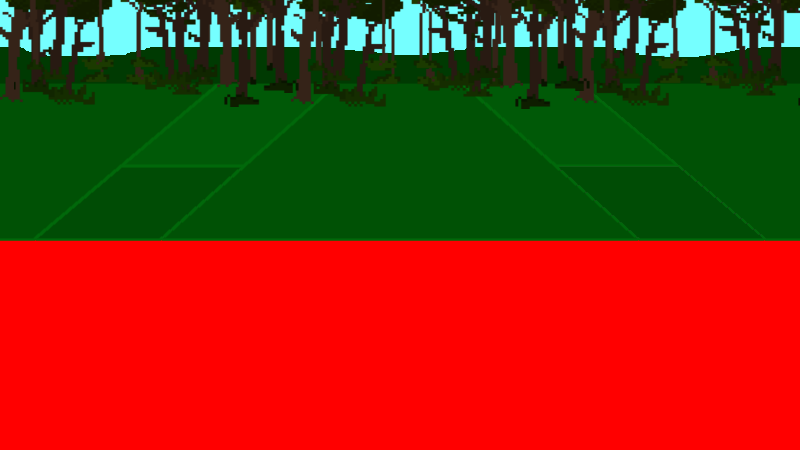
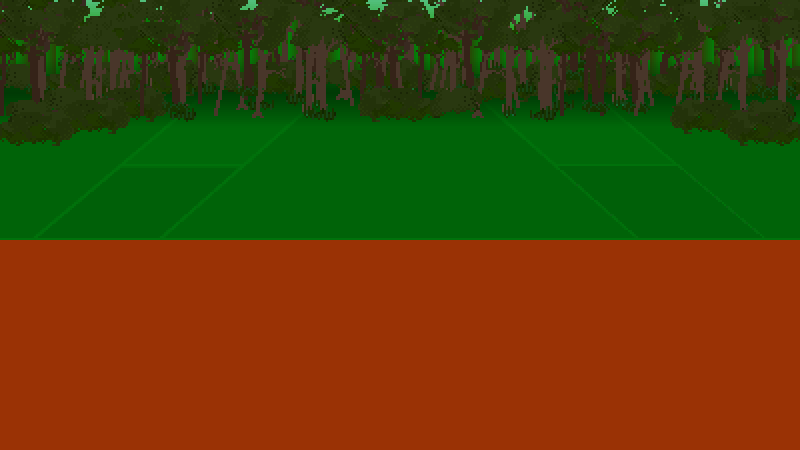
updated background and a name

diff --git a/public/js/battlestage.js b/public/js/battlestage.js
@@ -249,7 +249,7 @@
 
 		var thumbnailbox = new createjs.Container();
 		// Create the title text to be displayed
-		var message = unit.name + ", " + unit.title;
+		var message = unit.name + " " + unit.title;
 		nametext = new createjs.Text(message, "32px crazycreation", "#000000");
 		nametext.x = uniticon.x + uniticon.getBounds().width + 8;
 		var message2 = "";

diff --git a/public/js/units/unit_001.js b/public/js/units/unit_001.js
@@ -8,8 +8,8 @@
 		this.owner = player;
 		this.unique_id = null;
 		this.catalog_id = "001";
-		this.name = "Ren Mei";
-		this.title = "the Renowned Act";
+		this.name = "Shiren";
+		this.title = "the Veiled";
 		this.attributes = [this.bc.ATTRIBUTE.ILLUSIONIST];
 		this.level = 5;
 		this.base_stat_health = 95;
